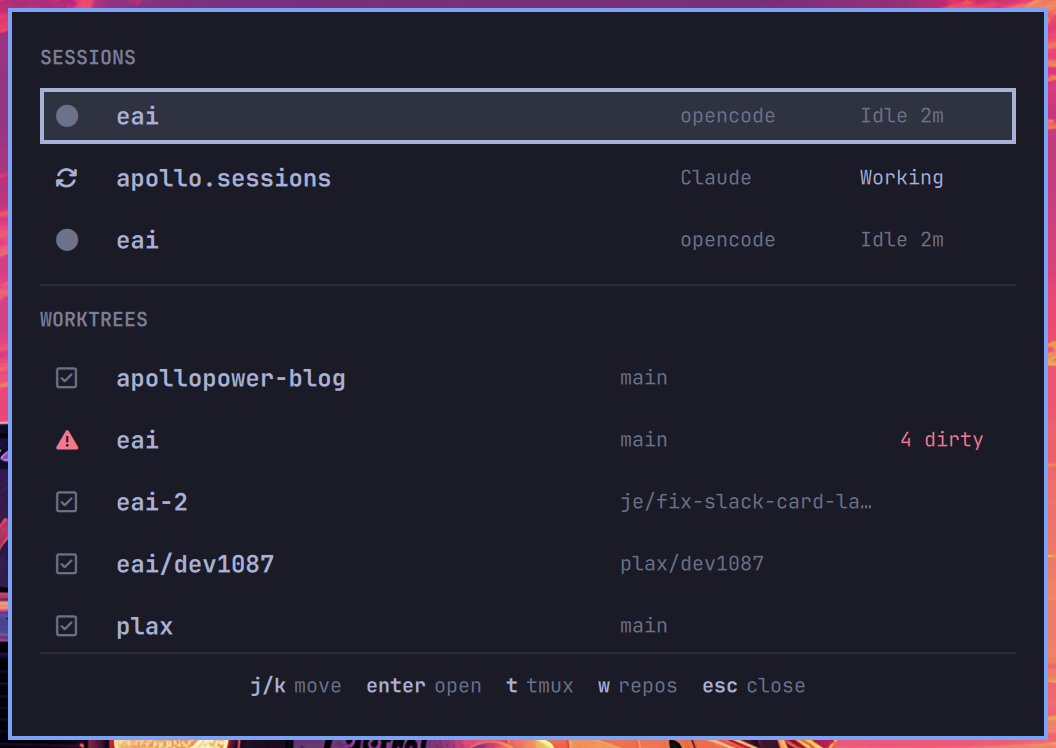
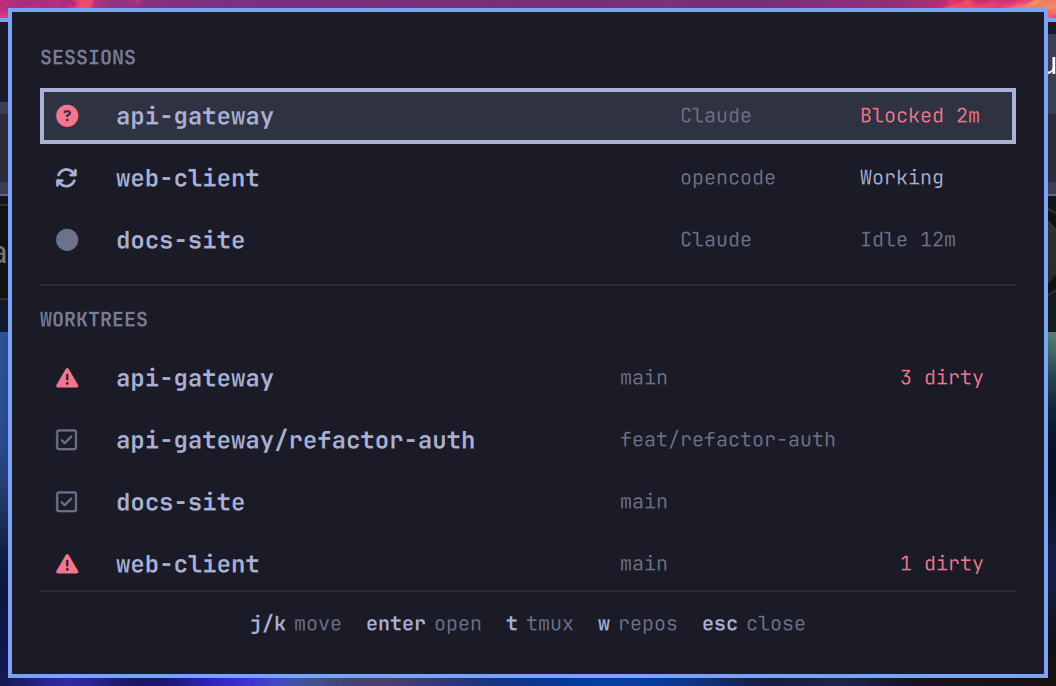
Remove machine-specific details from the preview and comments
The published preview.png was a screenshot of a real panel, so it showed a
private repository name, a branch named after an internal ticket, and a second
branch naming an unreleased feature. That image is in a public repo and was
handed to the marketplace. It is now a screenshot of the same UI driven by
synthetic data, which also lets it show the Blocked state the real one never
happened to capture.

Two code comments named the same private repo and worktree while explaining why
grouping is by parent rather than by label. The explanation does not need real
names, so it no longer has them. The tooling-convention example is generic for
the same reason.

The plugin itself never had a leak to fix: it makes no network calls of any
kind, and writes nothing outside its own directory. The remaining personal
detail in the tree is the copyright line in LICENSE, which is deliberate.

diff --git a/README.md b/README.md
@@ -102,7 +102,8 @@ tail is read, since transcripts reach megabytes.
 
 Worktrees come from `git worktree list` on every repository found under
 `worktreeRoots`, not from the directory layout — so a worktree parked inside
-its own repo (`.plax/worktrees/<name>`, a common convention for agent tooling)
+its own repo (`.worktrees/<name>` and similar, a common convention for agent
+tooling)
 is listed like any other. They are grouped under the repository they belong to,
 and nested ones are labelled `<repo>/<worktree>` so it is obvious what they are
 part of. A plain clone reports itself as its own single worktree, so it appears
